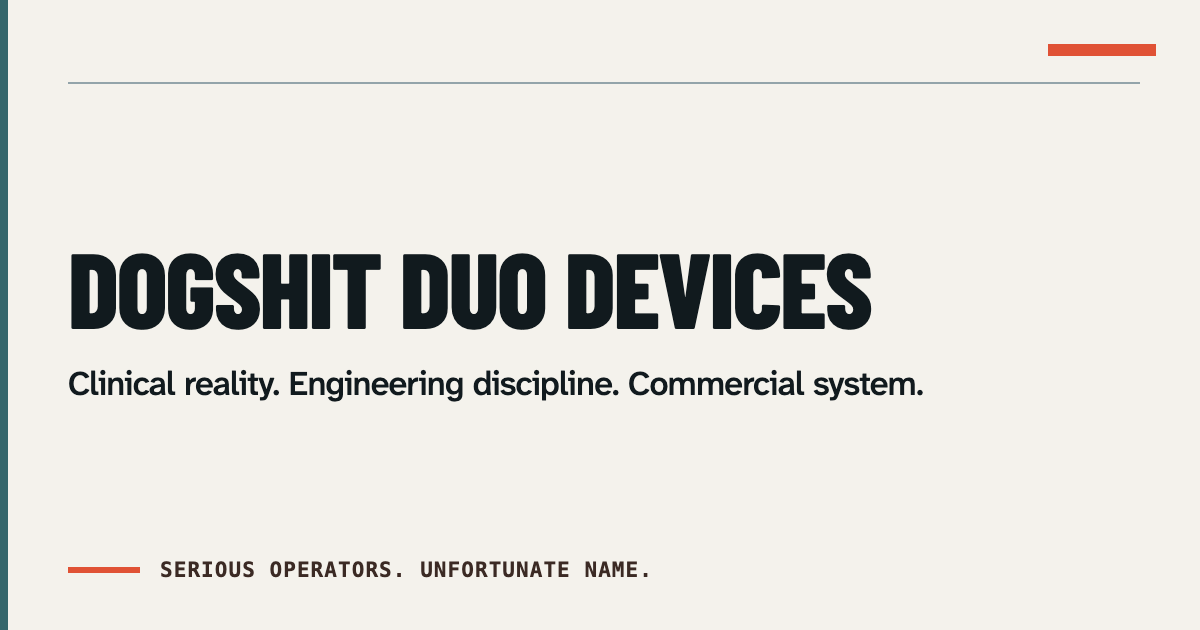
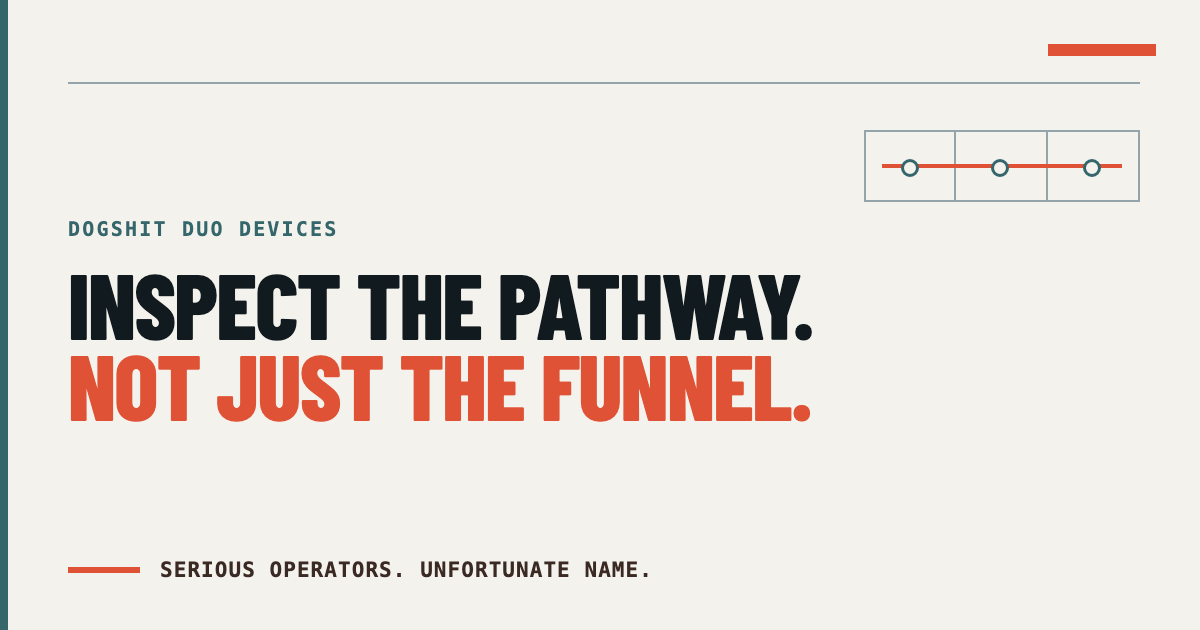
feat: make the pathway the social memory asset

diff --git a/assets/og.html b/assets/og.html
@@ -60,6 +60,7 @@
     }
 
     main {
+      position: relative;
       display: grid;
       grid-template-rows: auto 1fr auto;
       height: 100%;
@@ -72,28 +73,74 @@
     }
 
     .hero {
+      position: relative;
+      z-index: 1;
       align-self: center;
     }
 
+    .brand {
+      margin: 0 0 22px;
+      color: var(--teal);
+      font-family: ui-monospace, SFMono-Regular, Menlo, Monaco, Consolas, monospace;
+      font-size: 20px;
+      font-weight: 750;
+      letter-spacing: 0.11em;
+    }
+
     h1 {
-      margin: 0 0 30px;
+      margin: 0;
       font-family: "DDD Display", "Arial Narrow", Arial, sans-serif;
-      font-size: 106px;
+      font-size: 92px;
       font-stretch: condensed;
       font-weight: 800;
-      letter-spacing: -0.02em;
-      line-height: 0.9;
+      letter-spacing: -0.018em;
+      line-height: 0.88;
       white-space: nowrap;
     }
 
-    .positioning {
-      max-width: 950px;
-      margin: 0;
-      font-size: 34px;
-      font-weight: 500;
-      letter-spacing: -0.025em;
-      line-height: 1.12;
-      white-space: nowrap;
+    h1 span {
+      color: var(--orange);
+    }
+
+    .pathway-diagram {
+      position: absolute;
+      z-index: 0;
+      top: 130px;
+      right: 60px;
+      display: grid;
+      grid-template-columns: repeat(3, 92px);
+      height: 72px;
+    }
+
+    .pathway-diagram::after {
+      content: "";
+      position: absolute;
+      top: 34px;
+      left: 18px;
+      right: 18px;
+      border-top: 4px solid var(--orange);
+    }
+
+    .pathway-diagram span {
+      position: relative;
+      border: 2px solid var(--steel);
+    }
+
+    .pathway-diagram span + span {
+      border-left: 0;
+    }
+
+    .pathway-diagram span::after {
+      content: "";
+      position: absolute;
+      z-index: 1;
+      top: 27px;
+      left: 35px;
+      width: 12px;
+      height: 12px;
+      border: 3px solid var(--teal);
+      background: var(--paper);
+      border-radius: 50%;
     }
 
     .closing {
@@ -120,9 +167,10 @@
 <body>
   <main>
     <div class="rail" aria-hidden="true"></div>
+    <div class="pathway-diagram" aria-hidden="true"><span></span><span></span><span></span></div>
     <div class="hero">
-      <h1>DOGSHIT DUO DEVICES</h1>
-      <p class="positioning">Clinical reality. Engineering discipline. Commercial system.</p>
+      <p class="brand">DOGSHIT DUO DEVICES</p>
+      <h1>INSPECT THE PATHWAY.<br><span>NOT JUST THE FUNNEL.</span></h1>
     </div>
     <p class="closing">Serious operators. Unfortunate name.</p>
   </main>

diff --git a/index.html b/index.html
@@ -7,7 +7,7 @@
   <meta name="theme-color" content="#f4f2ec">
   <meta property="og:type" content="website">
   <meta property="og:title" content="Dogshit Duo Devices">
-  <meta property="og:description" content="Clinical reality. Engineering discipline. Commercial system.">
+  <meta property="og:description" content="When a medtech sale stalls, inspect the pathway, not just the funnel.">
   <meta property="og:image" content="./assets/og.png">
   <title>Dogshit Duo Devices | Commercialization Practice</title>
   <link rel="icon" href="./assets/favicon.svg" type="image/svg+xml">